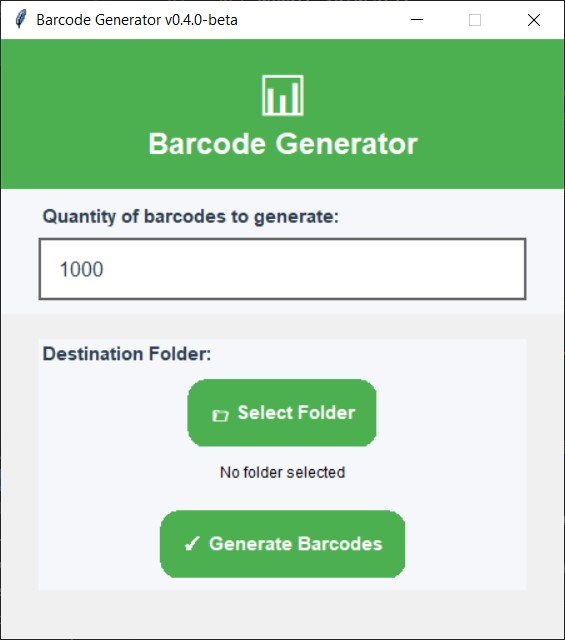
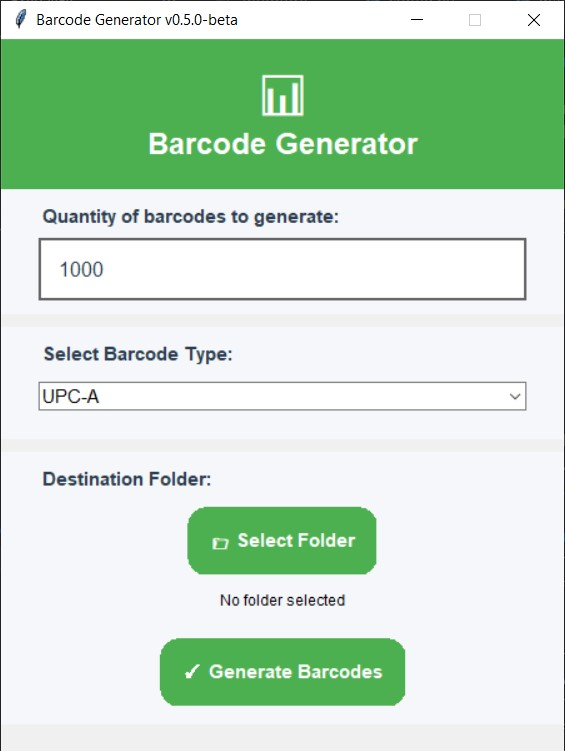
chore: update software version, updade main ui readme image

diff --git a/tkinter_ui.py b/tkinter_ui.py
@@ -155,7 +155,7 @@ def shorten_path(path, max_length=30):
 
 # Main window
 root = tk.Tk()
-root.title("Barcode Generator v0.4.0-beta")
+root.title("Barcode Generator v0.5.0-beta")
 root.geometry("450x570")
 root.resizable(False, False)
 